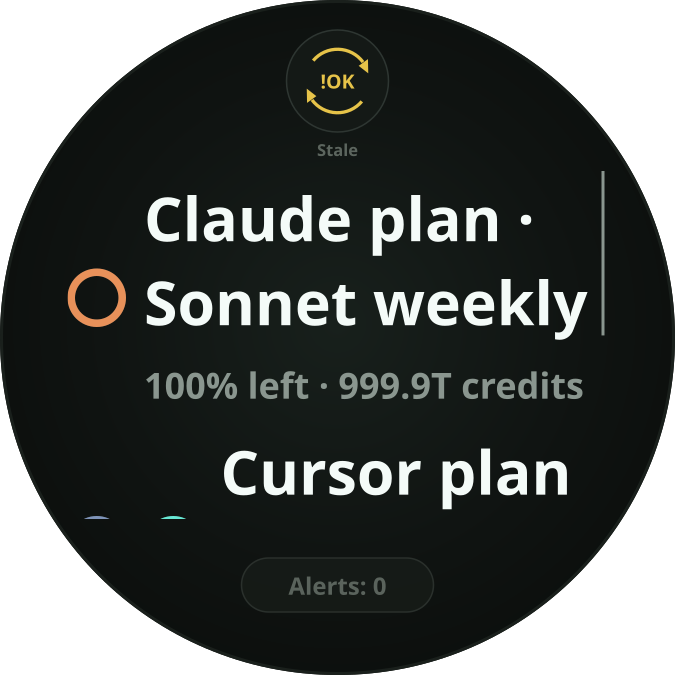
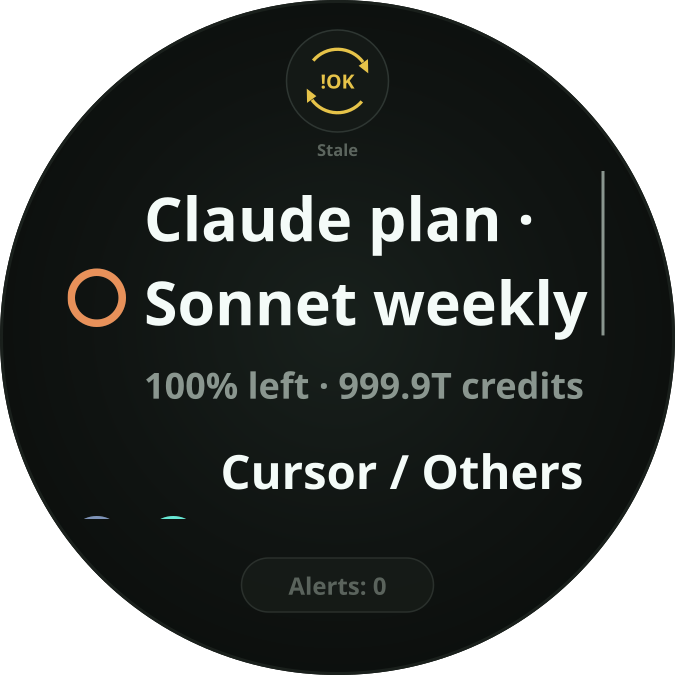
fix(wear): name the exact cursor pair in glance

Changed region(s): [[0.3422, 0.6533, 0.8711, 0.7778]]

diff --git a/apps/wear_android/app/src/test/java/app/wardpulse/wear/ui/GlanceModelsTest.kt b/apps/wear_android/app/src/test/java/app/wardpulse/wear/ui/GlanceModelsTest.kt
@@ -145,7 +145,7 @@ class GlanceModelsTest {
         assertEquals(3, rows.size)
         assertEquals("Codex plan · Weekly", rows[0].title)
         assertEquals("8% left · 320 credits", rows[0].subtitle)
-        assertEquals("Cursor plan", rows[1].title)
+        assertEquals("Cursor / Others", rows[1].title)
         assertEquals("24% · 0% left", rows[1].subtitle)
         assertEquals(0f, requireNotNull(rows[1].secondaryArc).remainingFraction)
         assertEquals(listOf(6 until 8), rows[1].exhaustedPercentRanges)
@@ -161,13 +161,39 @@ class GlanceModelsTest {
                 allowances = listOf(cursorCredits()),
             ),
         ).single()
-        assertEquals("Cursor plan", row.title)
+        assertEquals("Cursor / Others", row.title)
         assertEquals("82% · 41% left · 320 credits", row.subtitle)
         assertEquals(0.82f, row.remainingFraction, 0.0001f)
         assertEquals(RingFamily.CURSOR_OWN, row.colorArgb)
         val outer = requireNotNull(row.secondaryArc)
         assertEquals(0.41f, outer.remainingFraction, 0.0001f)
         assertEquals(RingFamily.CURSOR, outer.colorArgb)
+    }
+
+    @Test
+    fun legendRows_cursorPairTitleUsesExactIdsRegardlessOfLabels() {
+        val pair = cursorPair()
+        val renamed = pair.copy(
+            label = "Renamed inner pool",
+            split = requireNotNull(pair.split).copy(label = "Renamed outer pool"),
+        )
+        assertEquals("Cursor / Others", glanceLegendRows(baseSummary(rings = listOf(renamed))).single().title)
+    }
+
+    @Test
+    fun legendRows_cursorNonmatchesKeepLiteralFallbackTitles() {
+        val pair = cursorPair()
+        val outer = requireNotNull(pair.split)
+        for (other in listOf(
+            pair.copy(id = "allowance.cursor.cursor-plan-models-lookalike"),
+            pair.copy(split = outer.copy(id = "allowance.cursor.cursor-plan-other-lookalike")),
+            pair.copy(id = outer.id, label = outer.label, split = outer.copy(id = pair.id, label = pair.label)),
+            pair.copy(id = "allowance.cursor.plan"),
+        )) {
+            assertEquals("Cursor plan", glanceLegendRows(baseSummary(rings = listOf(other))).single().title)
+        }
+        val unrelated = pair.copy(id = "unrelated.models", split = outer.copy(id = "unrelated.other"))
+        assertEquals("Cursor Models plan", glanceLegendRows(baseSummary(rings = listOf(unrelated))).single().title)
     }
 
     @Test
@@ -182,7 +208,7 @@ class GlanceModelsTest {
             rings = listOf(cursorPair(), codex, single),
             allowances = listOf(credits),
         ))
-        assertEquals(listOf("Cursor plan", "Codex plan", "Claude plan · Sonnet weekly"), rows.map { it.title })
+        assertEquals(listOf("Cursor / Others", "Codex plan", "Claude plan · Sonnet weekly"), rows.map { it.title })
         assertEquals("82% · 41% left", rows[0].subtitle)
         assertEquals("82% · 41% left · 320 credits", rows[1].subtitle)
         assertEquals(RingFamily.CODEX, rows[1].colorArgb)
@@ -222,7 +248,7 @@ class GlanceModelsTest {
             val row = glanceLegendRows(
                 baseSummary(rings = listOf(cursorPair(innerUsed, outerUsed))),
             ).single()
-            assertEquals("Cursor plan", row.title)
+            assertEquals("Cursor / Others", row.title)
             assertEquals(subtitle, row.subtitle)
             assertEquals(RingFamily.CURSOR_OWN, row.colorArgb)
             assertEquals(RingFamily.CURSOR, requireNotNull(row.secondaryArc).colorArgb)
@@ -235,7 +261,7 @@ class GlanceModelsTest {
             val pair = cursorPair(innerUsed, outerUsed)
             val allowances = listOf(cursorCredits())
             val actual = glanceLegendRows(baseSummary(rings = listOf(pair), allowances = allowances))
-            assertEquals("Cursor plan", actual.single().title)
+            assertEquals("Cursor / Others", actual.single().title)
             assertEquals(RingFamily.CURSOR_OWN, actual.single().colorArgb)
             assertEquals(RingFamily.CURSOR, requireNotNull(actual.single().secondaryArc).colorArgb)
             assertEquals(
@@ -405,7 +431,7 @@ class GlanceModelsTest {
         assertEquals(
             listOf(
                 "Codex plan · Weekly",
-                "Cursor plan",
+                "Cursor / Others",
                 "Budget · Today",
             ),
             rows.map { it.title },

diff --git a/apps/wear_android/app/src/main/java/app/wardpulse/wear/ui/GlanceModels.kt b/apps/wear_android/app/src/main/java/app/wardpulse/wear/ui/GlanceModels.kt
@@ -87,6 +87,8 @@ fun glanceLegendRows(summary: WatchDashboardSummary): List<GlanceLegendRowModel>
                     title = when {
                         ring.id == "allowance.claude.plan" &&
                             split.id == "allowance.claude.claude-seven-day-fable" -> "Claude / Fable"
+                        ring.id == "allowance.cursor.cursor-plan-models" &&
+                            split.id == "allowance.cursor.cursor-plan-other" -> "Cursor / Others"
                         else -> "${glanceFamilyName(ring.id) ?: ring.label} plan"
                     },
                     subtitle = glanceSubtitle(

diff --git a/docs/product/WEAR_GLANCE_DESIGN.md b/docs/product/WEAR_GLANCE_DESIGN.md
@@ -5,6 +5,17 @@
 watch-face baseline in [`WATCH_RING_DESIGN.md`](WATCH_RING_DESIGN.md): this screen is a
 **text legend** for face ring colors, not a face clone.
 
+## Revision 2026-11-04 — exact Cursor pair title
+
+The selected pair title is **Cursor / Others** only for renderable inner
+`allowance.cursor.cursor-plan-models` and outer `allowance.cursor.cursor-plan-other`.
+Known exhausted halves still form the pair. An unavailable half keeps the actual known
+survivor's ordinary pool title; two unavailable halves produce no row. Labels, lookalike,
+reversed, retired or unrelated IDs do not confer this title. Other pair titles, arithmetic,
+credits, colors and measured fitting remain unchanged. The affected SVG/PNG boards are
+illustrative review art; updated-app title fit and normal selected-pair proof remain
+**Pending** for post-execution HOST verification. Earlier records retain their dated scope.
+
 ## Revision 2026-11-03 — exact-full mini-circle closure
 
 Only validated original `usedPercent == 0` gets a uniform closed family contour at 12,
@@ -682,10 +693,12 @@ Rules:
   At known exhaustion, keep only the existing grey track `#2E3632`, with no coloured arc.
   Positive fractions that round to `0%` keep their positive paint input and ordinary label
   colour, without a universal subpixel-visibility guarantee.
-- Primary line for a pair: **family name + ` plan`**, exactly `Cursor plan` for Cursor and
+- Primary line for the exact renderable Cursor Models/Other Models pair: **`Cursor / Others`**,
+  using the inner/outer IDs in the November 4 revision above. The exact Claude/Fable pair
+  keeps **`Claude / Fable`**. Other pairs keep **family name + ` plan`**, exactly
   `Codex plan` for Codex/Spark.
-  The phone uses the same rule for its band label; the payload carries pool labels, not a
-  separate band name. Ordinary recognized Claude windows use `Claude plan · 5h`,
+  The payload carries pool labels, not a separate band name.
+  Ordinary recognized Claude windows use `Claude plan · 5h`,
   `Claude plan · Weekly`, `Claude plan · Opus weekly` or `Claude plan · Sonnet weekly`;
   Codex main uses `Codex plan · 5h` / `Codex plan · Weekly`. Recognize the known legacy raw
   Codex `Weekly plan` as `Weekly` only in presentation. Other ordinary labels keep the existing
@@ -853,7 +866,9 @@ Wear only: `apps/wear_android/design/`. OpenPencil `.fig` inventory optional.
 text legend + mini remaining arcs (not a face clone)
 one row per band, at most three rows; band order matches the phone/face
 paired arcs and percentages: inner first, outer second; each retains its own colour
-paired title = family + " plan"; Cursor plan and Codex plan exactly
+exact renderable Cursor Models/Other Models pair, inner first: Cursor / Others
+exact renderable Claude/Fable pair, inner first: Claude / Fable
+other paired title = family + " plan"; Codex plan exactly
 paired subtitle = "82% · 41% left · 320 credits" (omit credits suffix when unavailable)
 legend target 27/23, bounded title 18–27 / subtitle 16–23 fitting; maximum centered width 360
 scaled 75-unit pitch; independently rounded 37/32 line reservations and complete rows; 39-unit arc floor

diff --git a/.agents/skills/android-surfaces/references/wear.md b/.agents/skills/android-surfaces/references/wear.md
@@ -8,7 +8,9 @@ services and build work.
   text legend (not a face clone) — mini remaining arcs, tightest-first, per-provider credits.
   **2026-09-16 revision:** one row per band, at most three rows. A known pair has two
   mini-tracks with coloured arcs for positive values and inner-first percentages,
-  title = family + ` plan` (`Cursor plan`),
+  title = `Cursor / Others` only for exact inner `allowance.cursor.cursor-plan-models`
+  plus outer `allowance.cursor.cursor-plan-other`; other pairs keep family + ` plan`
+  (`Codex plan`), except the exact Claude/Fable pair below,
   subtitle = `82% · 41% left · 320 credits` (credits once, omitted when unavailable).
   **2026-11-01 Fable rendering:** exact inner `allowance.claude.plan` plus outer
   `allowance.claude.claude-seven-day-fable` titles the row `Claude / Fable`.

diff --git a/docs/product/user-guide/WATCH.md b/docs/product/user-guide/WATCH.md
@@ -18,7 +18,7 @@ sign in to providers on the watch. If the phone has data but the watch does not,
 
 **Glance** shows remaining capacity with provider labels, compact tracks, optional purchased
 credits and refresh status. A title such as **Claude plan · Weekly** names the plan and its
-selected window. Paired **Cursor plan**, **Codex plan** or **Claude / Fable** rows show two
+selected window. Paired **Cursor / Others**, **Codex plan** or **Claude / Fable** rows show two
 percentages, with the inner half first.
 Glance hides the clock to make room for larger labels. The clock remains on **Plan windows**,
 **Alerts**, the **Watch face** setup screen and the prompt shown before the first summary.
